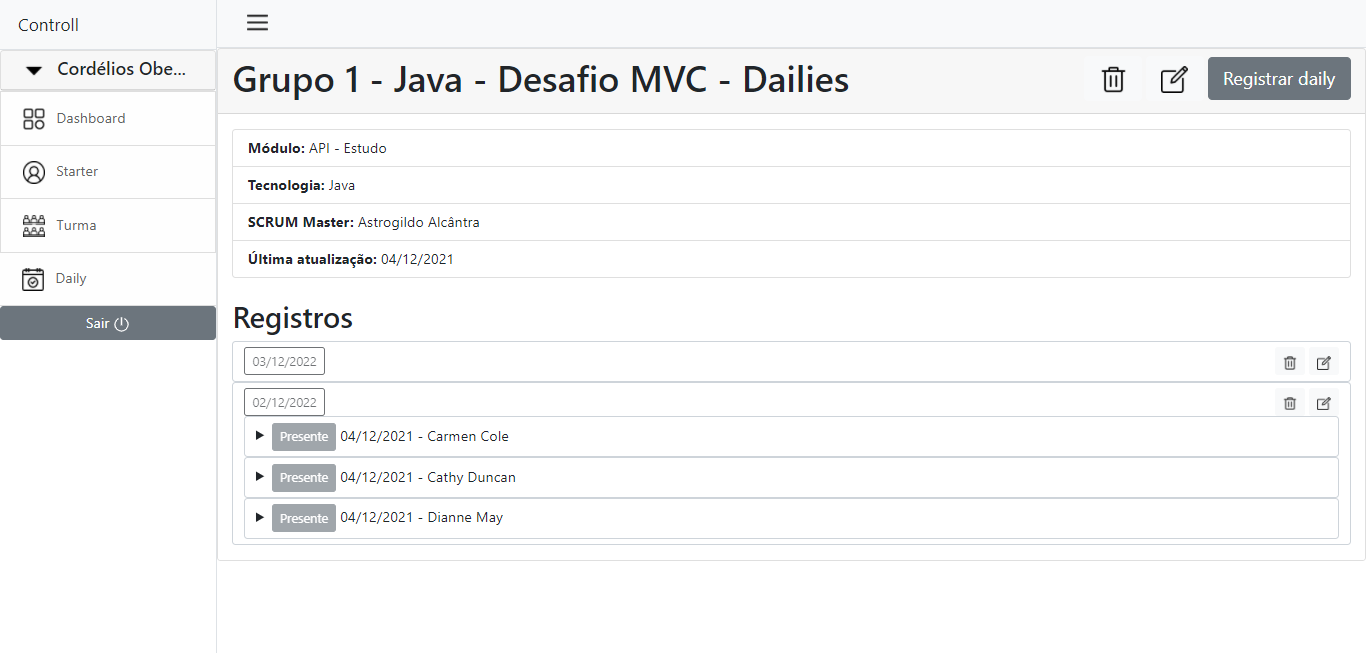
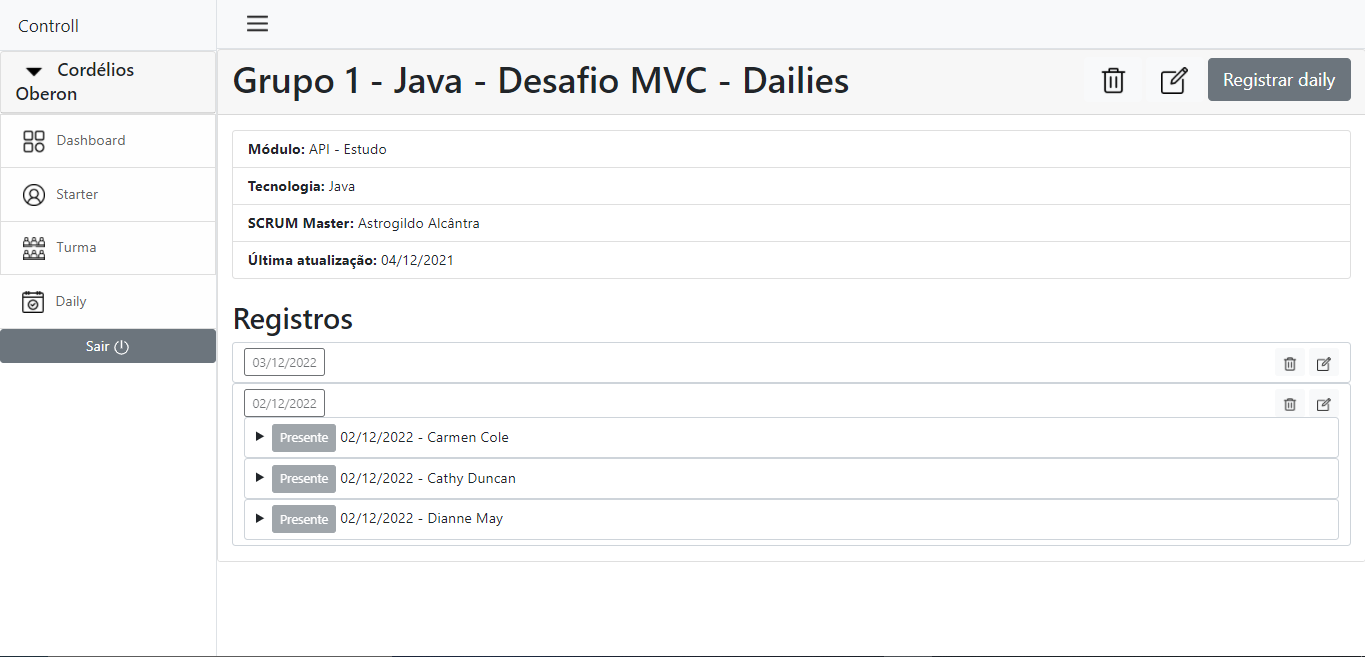
docs/fix: Correção na definição de exemplo de dailies e alterção em uma screenshot

diff --git a/src/main/java/com/start/controll/configuration/database/PopulateDatabase.java b/src/main/java/com/start/controll/configuration/database/PopulateDatabase.java
@@ -171,8 +171,10 @@ public class PopulateDatabase {
         "Grupo 2 - .NET - Desafio MVC", dotnet, scrumMaster,  starters, module
     )).get();
 
+    final Integer start = 2021 - 1900;
+
     var registers1 = group.getStarters().stream().map(starter -> new Daily(
-        new Date(), String.format("Fazendo + %s", starter.getId()),
+        new Date(start + 1, Calendar.DECEMBER, 2), String.format("Fazendo + %s", starter.getId()),
         String.format("Concluido + %s", starter.getId()),
         String.format("Impedimento + %s", starter.getId()),
         Boolean.TRUE,  starter, group,
@@ -180,14 +182,12 @@ public class PopulateDatabase {
     ).collect(Collectors.toList());
 
     var registers2 = group.getStarters().stream().map(starter -> new Daily(
-        new Date(), String.format("Fazendo + %s", starter.getId()),
+        new Date(start + 1, Calendar.DECEMBER, 3), String.format("Fazendo + %s", starter.getId()),
         String.format("Concluido + %s", starter.getId()),
         String.format("Impedimento + %s", starter.getId()),
         Boolean.TRUE,  starter, group,
         module)
     ).collect(Collectors.toList());
-
-    final Integer start = 2021 - 1900;
 
     group.setDailies(
         List.of(

diff --git a/README.md b/README.md
@@ -33,7 +33,6 @@ Criar um controle de Starter para GFT.
     <img  width="350" src="screenshot/06.png" />
     <img  width="350" src="screenshot/07.png" />
     <img  width="350" src="screenshot/08.png" />
-    <img  width="350" src="screenshot/09.png" />
 </p>
 
 ## :cd: Iniciar
